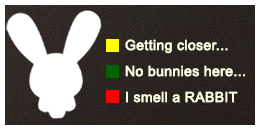
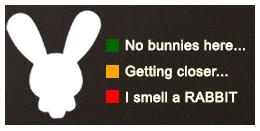
update prox ui, from yellow to orange

Changed region(s): [[0.4, 0.4885, 0.9538, 0.6107], [0.4, 0.2748, 0.9538, 0.4275]]

diff --git a/app/assets/javascripts/view.js b/app/assets/javascripts/view.js
@@ -28,7 +28,6 @@ DomManager = (function () {
 }());
 
 function View() {
-  this.rabbitMarker = '/assets/rabbitmarker.png'
   this.divData = DomManager.getDivContents();
 	this.lat = parseFloat(this.divData.gameLat);
 	this.lng = parseFloat(this.divData.gameLng);
@@ -84,15 +83,15 @@ View.prototype = {
 
     createNewPlayerMarkerOptions: function(playerMarker) {
         if (playerMarker.kind =="rabbit"){
-            var iconPic = "rabbit.png"
+            var iconPic = "/assets/rabbit.png"
         }
         else{
-            var iconPic = "terminator.gif"
+            var iconPic = "/assets/terminator.gif"
         };
     	return {
     	  map: this.map,
     	  position: new google.maps.LatLng(playerMarker.lat, playerMarker.lng),
-        icon: this.rabbitMarker
+        icon: iconPic
     	};
     },
 
@@ -111,7 +110,7 @@ View.prototype = {
     },
 
     showWinModal: function(message) {
-        $("#dialog h3").html(message)
+        $("#dialog h3.winMessage").html(message)
         $("#dialog").dialog({
             width: 735,
             autoOpen: true,

diff --git a/app/assets/javascripts/controller.js b/app/assets/javascripts/controller.js
@@ -63,8 +63,8 @@ PlayerController.prototype = {
 			this.sendWinMessageToAll()
 		} else if (data['proximity'] == "red") {
 				this.view.showProximityAlert("red")
-		} else if (data['proximity'] == "yellow") {
-				this.view.showProximityAlert("yellow")
+		} else if (data['proximity'] == "orange") {
+				this.view.showProximityAlert("orange")
 		} else {
 				this.view.showProximityAlert("green")
 		}

diff --git a/app/models/proximity_checker.rb b/app/models/proximity_checker.rb
@@ -26,7 +26,7 @@ class ProximityChecker
     elsif circle_area < RED_ZONE_RADIUS_SQUARED
     	"red"
     elsif circle_area < YELLOW_ZONE_RADIUS_SQUARED
-    	"yellow"
+    	"orange"
     else
     	"green"
     end
